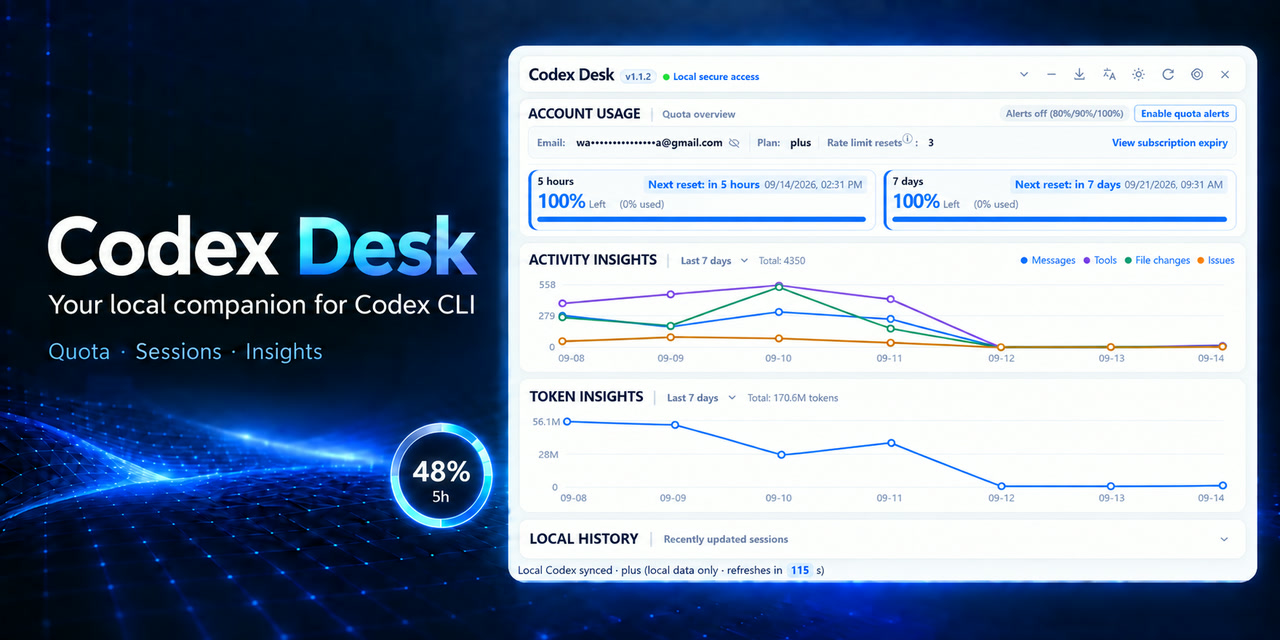
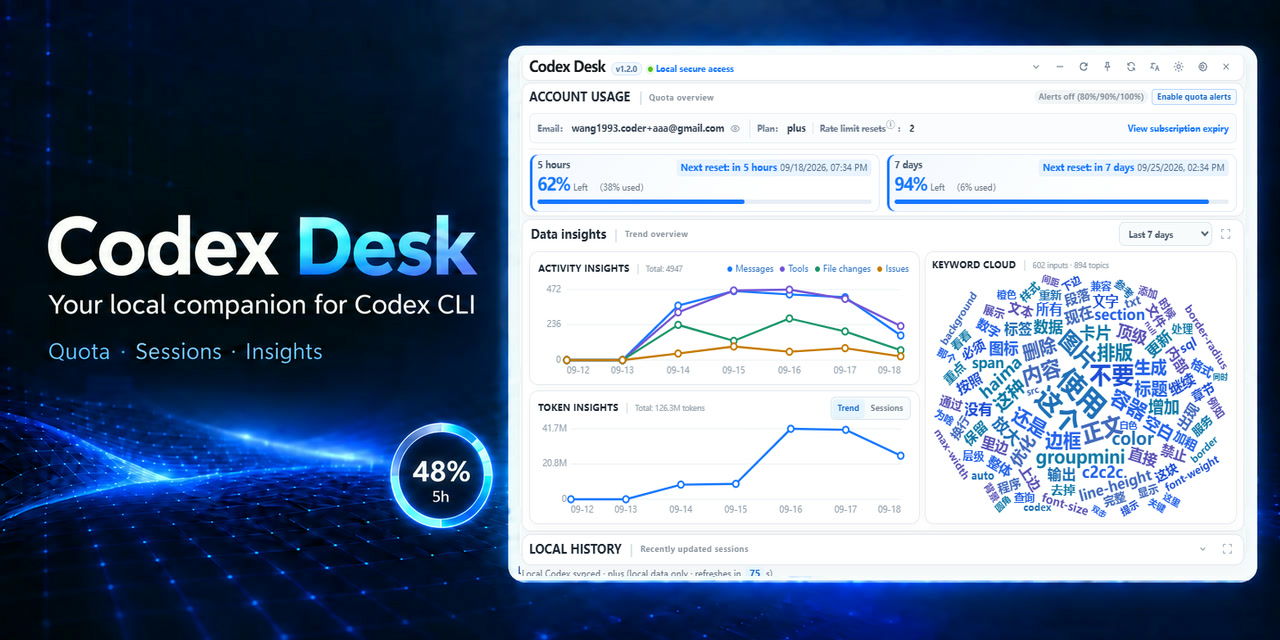
feat: 更新文档以反映新功能和界面改进

Changed region(s): [[0.4062, 0.0938, 0.9688, 0.9062], [0.6875, 0.7812, 0.7188, 0.8125]]

diff --git a/README.md b/README.md
@@ -12,7 +12,7 @@
 
 **Keep track of Codex CLI quota and quickly resume local sessions.**
 
-Codex Desk is a privacy-first desktop control center for Codex CLI. It keeps a floating quota indicator on your desktop and provides quota alerts, account and usage overviews, local session browsing, activity and Token trends, session insights, and cross-device session migration.
+Codex Desk is a privacy-first desktop control center for Codex CLI. It keeps a floating quota indicator on your desktop and provides quota alerts, local session browsing, activity trends, a keyword cloud, daily and per-session Token insights, session details, and cross-device session migration.
 
 Account, quota, and session data are obtained through the local `codex app-server --stdio` process. Token usage is aggregated from cumulative snapshots in local Codex session files. Codex Desk does not upload your data to a third-party service or read or save `auth.json`.
 
@@ -47,15 +47,17 @@ After installation, you still need to install and sign in to Codex CLI separatel
 - **Account and usage overview**: view a masked sign-in email, current plan, quota windows, usage percentage, reset time, available rate-limit resets, and a link to the official billing portal.
 - **Quota alerts**: after you explicitly enable native notifications, get one alert per reset window at 80%, 90%, and 100% usage.
 - **Activity trends**: view the last 3, 7, or 30 days and independently show or hide messages, tool calls, file changes, and errors in a code-drawn line chart.
-- **Token insights**: aggregate daily Token usage and totals for the last 3, 7, or 30 days from cumulative snapshots in local Codex session files; session details also show total, input, output, cached-input, and reasoning-output usage.
-- **Local sessions**: browse non-archived local sessions, search by title or session ID, and view creation and update times.
-- **Session details and insights**: inspect user messages and Codex replies, with intermediate replies from the same turn collapsed under elapsed time while the final reply stays expanded. Expand the overview sidebar on demand, use full-area loading feedback while details are being read or refreshed, enlarge images in a dedicated preview, copy messages with images when the system clipboard supports rich content, and review aggregate activity metrics.
+- **Keyword cloud**: summarize recurring topics from user prompts over the selected range while filtering code blocks, URLs, and common technical noise.
+- **Token insights**: aggregate daily Token usage and per-session distribution for the last 3, 7, or 30 days from cumulative snapshots in local Codex session files; session details also show total, input, output, cached-input, and reasoning-output usage.
+- **Local sessions**: browse non-archived local sessions, search by title or session ID, and view creation and update times. Expanding the section adapts pagination to the available window height.
+- **Focused dashboard layout**: expand Data insights or Local history to fill the window, and keep the window above other apps when needed.
+- **Session details and insights**: inspect user messages and Codex replies, with intermediate replies from the same turn collapsed under elapsed time while the final reply stays expanded. Expand the overview sidebar on demand, use full-area loading feedback while details are being read or refreshed, enlarge images in a dedicated preview, and copy messages with images when the system clipboard supports rich content. The detail view summarizes messages and tool calls, while the overview sidebar groups file changes, errors, and Token usage.
 - **File change comparison**: aggregate file and tool activity below the relevant reply. File cards show filenames and added/removed line counts, and can be expanded before opening side-by-side or inline diffs. Historical diffs are shown from the session record and are not read from the current workspace.
 - **Resume quickly**: copy `codex resume <session ID>` from session details and continue the session in your terminal.
 - **Session import and export**: export selected sessions as portable Codex Desk bundles and import them as new sessions on another signed-in device.
 - **Single-instance behavior**: launching the app again brings the existing window to the front, avoiding duplicate Codex app-server and floating-orb instances.
 - **Local settings**: choose a Codex CLI executable or launcher path and an auto-refresh interval from 30 seconds to 5 minutes. Custom paths are validated with `codex --version` before saving.
-- **Connection recovery**: if the initial read fails, the dashboard shows a full-page connection state with a reload action. Auto-refresh pauses after repeated failures and resumes after a successful manual refresh.
+- **Connection recovery**: if the initial read fails, the dashboard shows a full-page connection state with a retry action. Repeated failures use bounded exponential backoff and return to the normal refresh schedule after recovery.
 - **Update notifications**: manually check the public version file from the dashboard; when a newer version is available, show its Release notes and provide a download link.
 - **Local data boundary**: account, quota, and session data are obtained through the local Codex app server. Token usage is read only from cumulative snapshots in local Codex session files. Authentication data is never read or stored, and no local data is uploaded; update checks request only public version and Release information from GitHub.
 
@@ -125,12 +127,13 @@ Build artifacts are generated under `src-tauri/target/release/bundle/`. Windows 
 
 - Click the floating usage orb to expand the dashboard; use **Collapse to floating orb** in the title bar to return to the orb.
 - Optionally enable system quota alerts at 80% / 90% / 100% usage from the dashboard.
-- Choose a 3-, 7-, or 30-day range for activity and Token trends, then toggle the activity metrics you want to compare.
+- Choose a 3-, 7-, or 30-day range for activity trends, the keyword cloud, and Token insights; switch Token insights between the trend and session-distribution views.
+- Expand Data insights or Local history for a focused full-window view, or pin the window above other apps from the title bar.
 - Search, inspect, import, or export local sessions from the session list. In session details, open recorded file diffs, or double-click an image to enlarge it.
 - Copy `codex resume <session ID>` from a session detail page to continue it in the terminal.
 - Drag the title area to reposition the floating window.
 - Auto-refresh uses the configured interval (60 seconds by default) and shows the countdown in the status bar. Expanding from the orb keeps the existing data and refresh schedule; use **Refresh now** for an immediate update.
-- Use **Minimize to system tray** to hide the dashboard and reopen it from the tray menu. Use **Quit** to exit the app.
+- Use **Minimize to system tray** to hide the dashboard and reopen, restart, or quit the app from the tray menu.
 
 ## License
 
